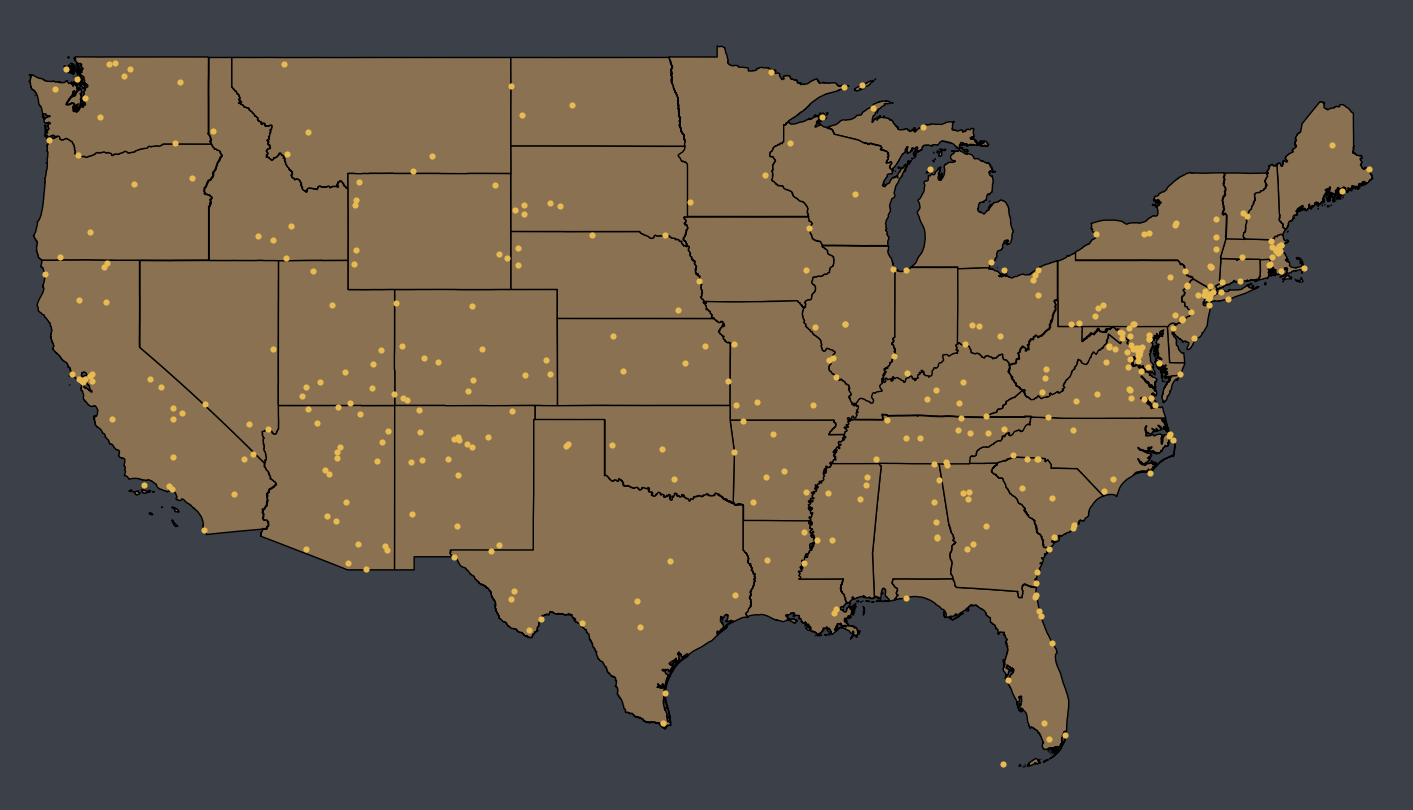
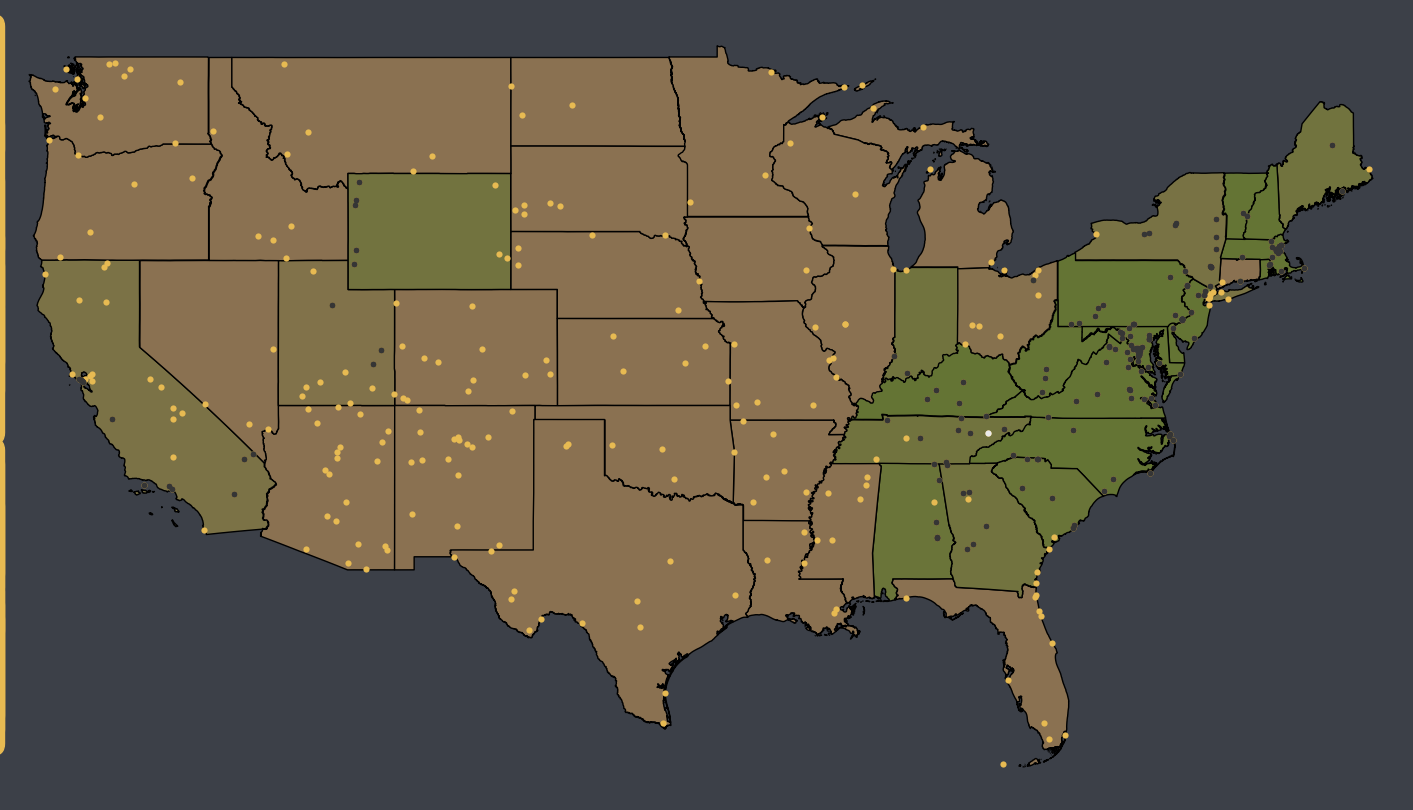
add the code for importing pngs from other source

Changed region(s): [[0.5916, 0.1235, 0.9653, 0.7407], [0.0, 0.0309, 0.0311, 0.9259]]

diff --git a/plotting/plotting_manager.py b/plotting/plotting_manager.py
@@ -106,6 +106,7 @@ class PlotManager:
             )
 
     def _plot_flags(self, ax):
+
         if self.scale >= 3:
             flag_size = "large"
         else:
@@ -127,7 +128,7 @@ class PlotManager:
                 beta = ratio*2 - 1
             else:
                 beta = 0
-            img = mpimg.imread(f"./de/submaps/{file}")
+            img = mpimg.imread(f"./{self.path}/submaps/{file}")
             rounded_mask = img[:, :, 3].copy()
             if img.shape[-1] == 3:
                 img = np.dstack([img, np.ones(img.shape[:2])])

diff --git a/main.py b/main.py
@@ -10,13 +10,13 @@ from utils.file_utils import ensure_directory_exists
 
 
 # Set global variables, directories for map creation and site locations
-SCALE = 4
+SCALE = 1
 
 # US National Park Global Variables
-#PATH = "us"
+PATH = "us"
 
 # Germany Global Variables
-PATH = "de"
+#PATH = "de"
 
 # Europe Global Variables
 #PATH = "eu"
